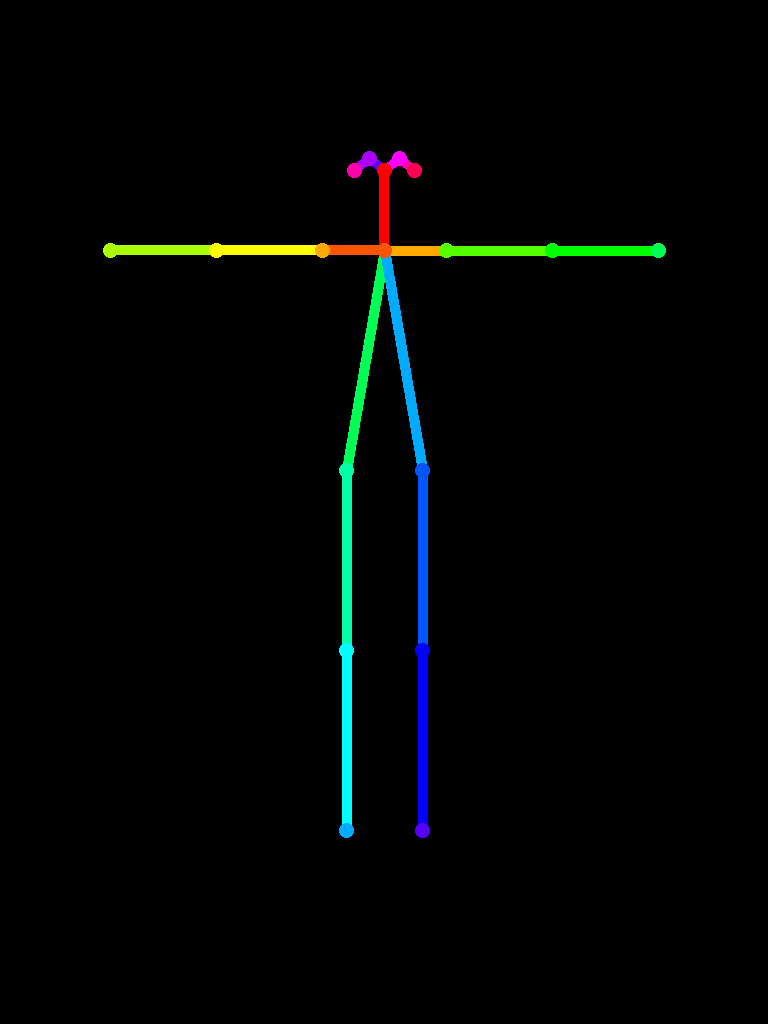
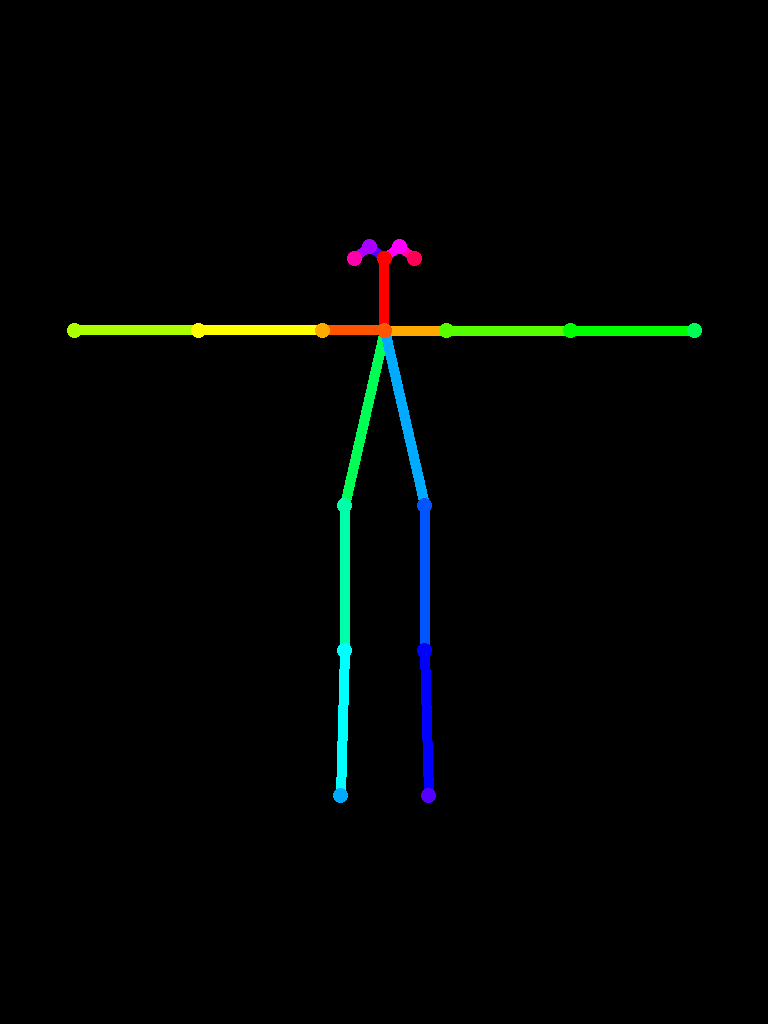
The skeleton prescribes the body: armspan equals height now
Generated characters were rendering vertically stretched. Not the resizer
(0.9 percent) -- the pose template itself: its wrist-to-wrist span was 75
percent of figure height, so every render obeyed a lanky skeleton. The
template now carries anatomical proportions (armspan = height, stockier
leg run), and the comment explains why the numbers are what they are.

Changed region(s): [[0.0938, 0.125, 0.9062, 0.8125]]

diff --git a/art-pipeline/art_pipeline/pose_template.py b/art-pipeline/art_pipeline/pose_template.py
@@ -18,25 +18,30 @@ SIZE = (768, 1024)  # portrait, matches typical anchor/sketch aspect
 
 # OpenPose BODY-18 keypoints in a strict T-pose, front-facing. The person's
 # right side sits on the image's left (mirror convention of a facing figure).
+#
+# Proportions are anatomical, not decorative: the model draws the figure the
+# skeleton prescribes. Armspan (wrist to wrist, 620) equals figure height
+# (crown ~205 to soles ~825) like a real human — the first template's 0.75
+# armspan/height ratio made every character render vertically stretched.
 KEYPOINTS = {
-    "nose": (384, 170),
-    "neck": (384, 250),
-    "r_shoulder": (322, 250),
-    "r_elbow": (216, 250),
-    "r_wrist": (110, 250),
-    "l_shoulder": (446, 250),
-    "l_elbow": (552, 250),
-    "l_wrist": (658, 250),
-    "r_hip": (346, 470),
-    "r_knee": (346, 650),
-    "r_ankle": (346, 830),
-    "l_hip": (422, 470),
-    "l_knee": (422, 650),
-    "l_ankle": (422, 830),
-    "r_eye": (369, 158),
-    "l_eye": (399, 158),
-    "r_ear": (354, 170),
-    "l_ear": (414, 170),
+    "nose": (384, 258),
+    "neck": (384, 330),
+    "r_shoulder": (322, 330),
+    "r_elbow": (198, 330),
+    "r_wrist": (74, 330),
+    "l_shoulder": (446, 330),
+    "l_elbow": (570, 330),
+    "l_wrist": (694, 330),
+    "r_hip": (344, 505),
+    "r_knee": (344, 650),
+    "r_ankle": (340, 795),
+    "l_hip": (424, 505),
+    "l_knee": (424, 650),
+    "l_ankle": (428, 795),
+    "r_eye": (369, 246),
+    "l_eye": (399, 246),
+    "r_ear": (354, 258),
+    "l_ear": (414, 258),
 }
 
 # (start, end, RGB) — the standard OpenPose limb palette, so any tool (or
